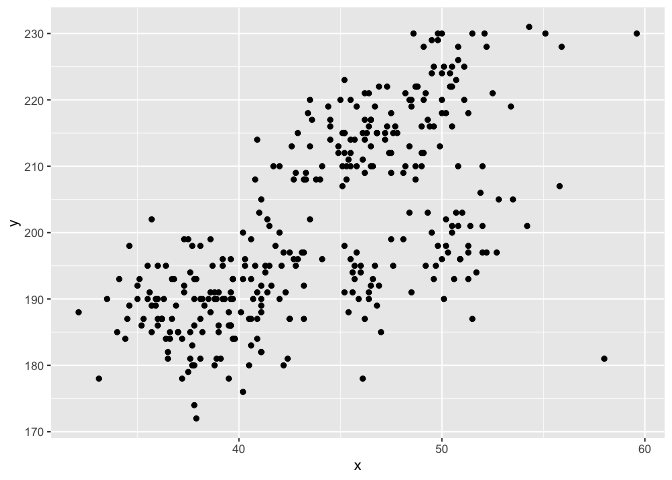
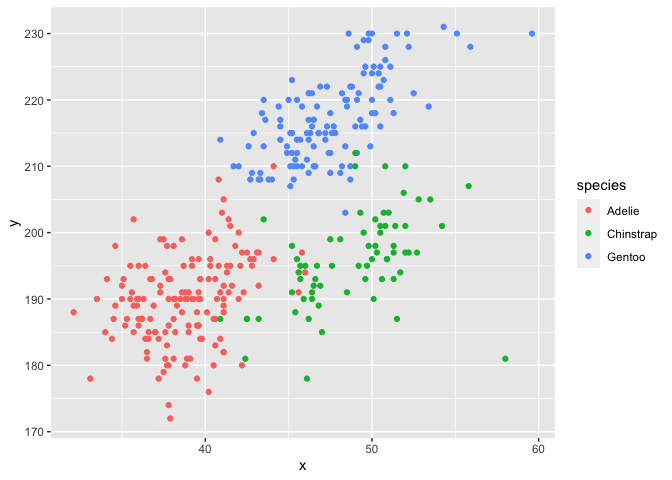
Second Edition

diff --git a/p8105_hw1_sz3030.md b/p8105_hw1_sz3030.md
@@ -32,7 +32,7 @@ prob1_tab = tibble(
 mean(pull(prob1_tab, norm_samp))
 ```
 
-    ## [1] 0.1125309
+    ## [1] 0.521529
 
 ``` r
 # mean of the logical vector
@@ -80,12 +80,13 @@ converted.
 
 The logical variable is thought to be 0 or 1 as default to represent
 FALSE or TRUE, respectively. So it is not surprising that logical
-variable has mean value.
+variable has mean value. `mean()` function does work for logical
+variables.
 
 The factor variable is also arranged specific values to represent
-different levels in the variable once we use `as.numeric` vector. But
-there doesn’t have a default value in the factor variable so that we
-cannot get its mean directly.
+different levels in the variable once we use `as.numeric` vector because
+of the factor variable is ordinal. But there doesn’t have a default
+value in the factor variable so that we cannot get its mean directly.
 
 For the character variable, we cannot use `as.numeric` vector to assign
 numbers to its characters and therefore it helps explain why we cannot
@@ -97,23 +98,24 @@ get the mean in the previous chunck.
 data("penguins", package = "palmerpenguins")
 ```
 
-The dataset contains several variables of the penguins, they are
-species, island, bill\_length\_mm, bill\_depth\_mm, flipper\_length\_mm,
-body\_mass\_g, sex, year. There are three species Adelie, Chinstrap,
+The dataset contains several variables of the penguins from 2007 to
+2009, they are species, island, bill\_length\_mm, bill\_depth\_mm,
+flipper\_length\_mm, body\_mass\_g, sex, year. The average body mass of
+the penguins is 4201.75. There are three species Adelie, Chinstrap,
 Gentoo in this dataset and the number of data we collected from the
 three species are 152, 68, 124, respectively. What’s more, this is a 344
 X 8 dataset and the mean flipper length we get from the dataset is
 200.92.
 
 ``` r
-# We first pull the X-Y variables from the dataset and make a data frame
+# We first pull the X-Y and species variables from the dataset and make a data frame
 plot_prob2 = tibble(
   y = penguins$flipper_length_mm,
   x = penguins$bill_length_mm,
   species = penguins$species
 )
 
-ggplot(plot_prob2, aes(x = x, y = y, colors = species)) + geom_point()
+ggplot(plot_prob2, aes(x = x, y = y, color = species)) + geom_point()
 ```
 
 ![](p8105_hw1_sz3030_files/figure-gfm/unnamed-chunk-3-1.png)<!-- -->
